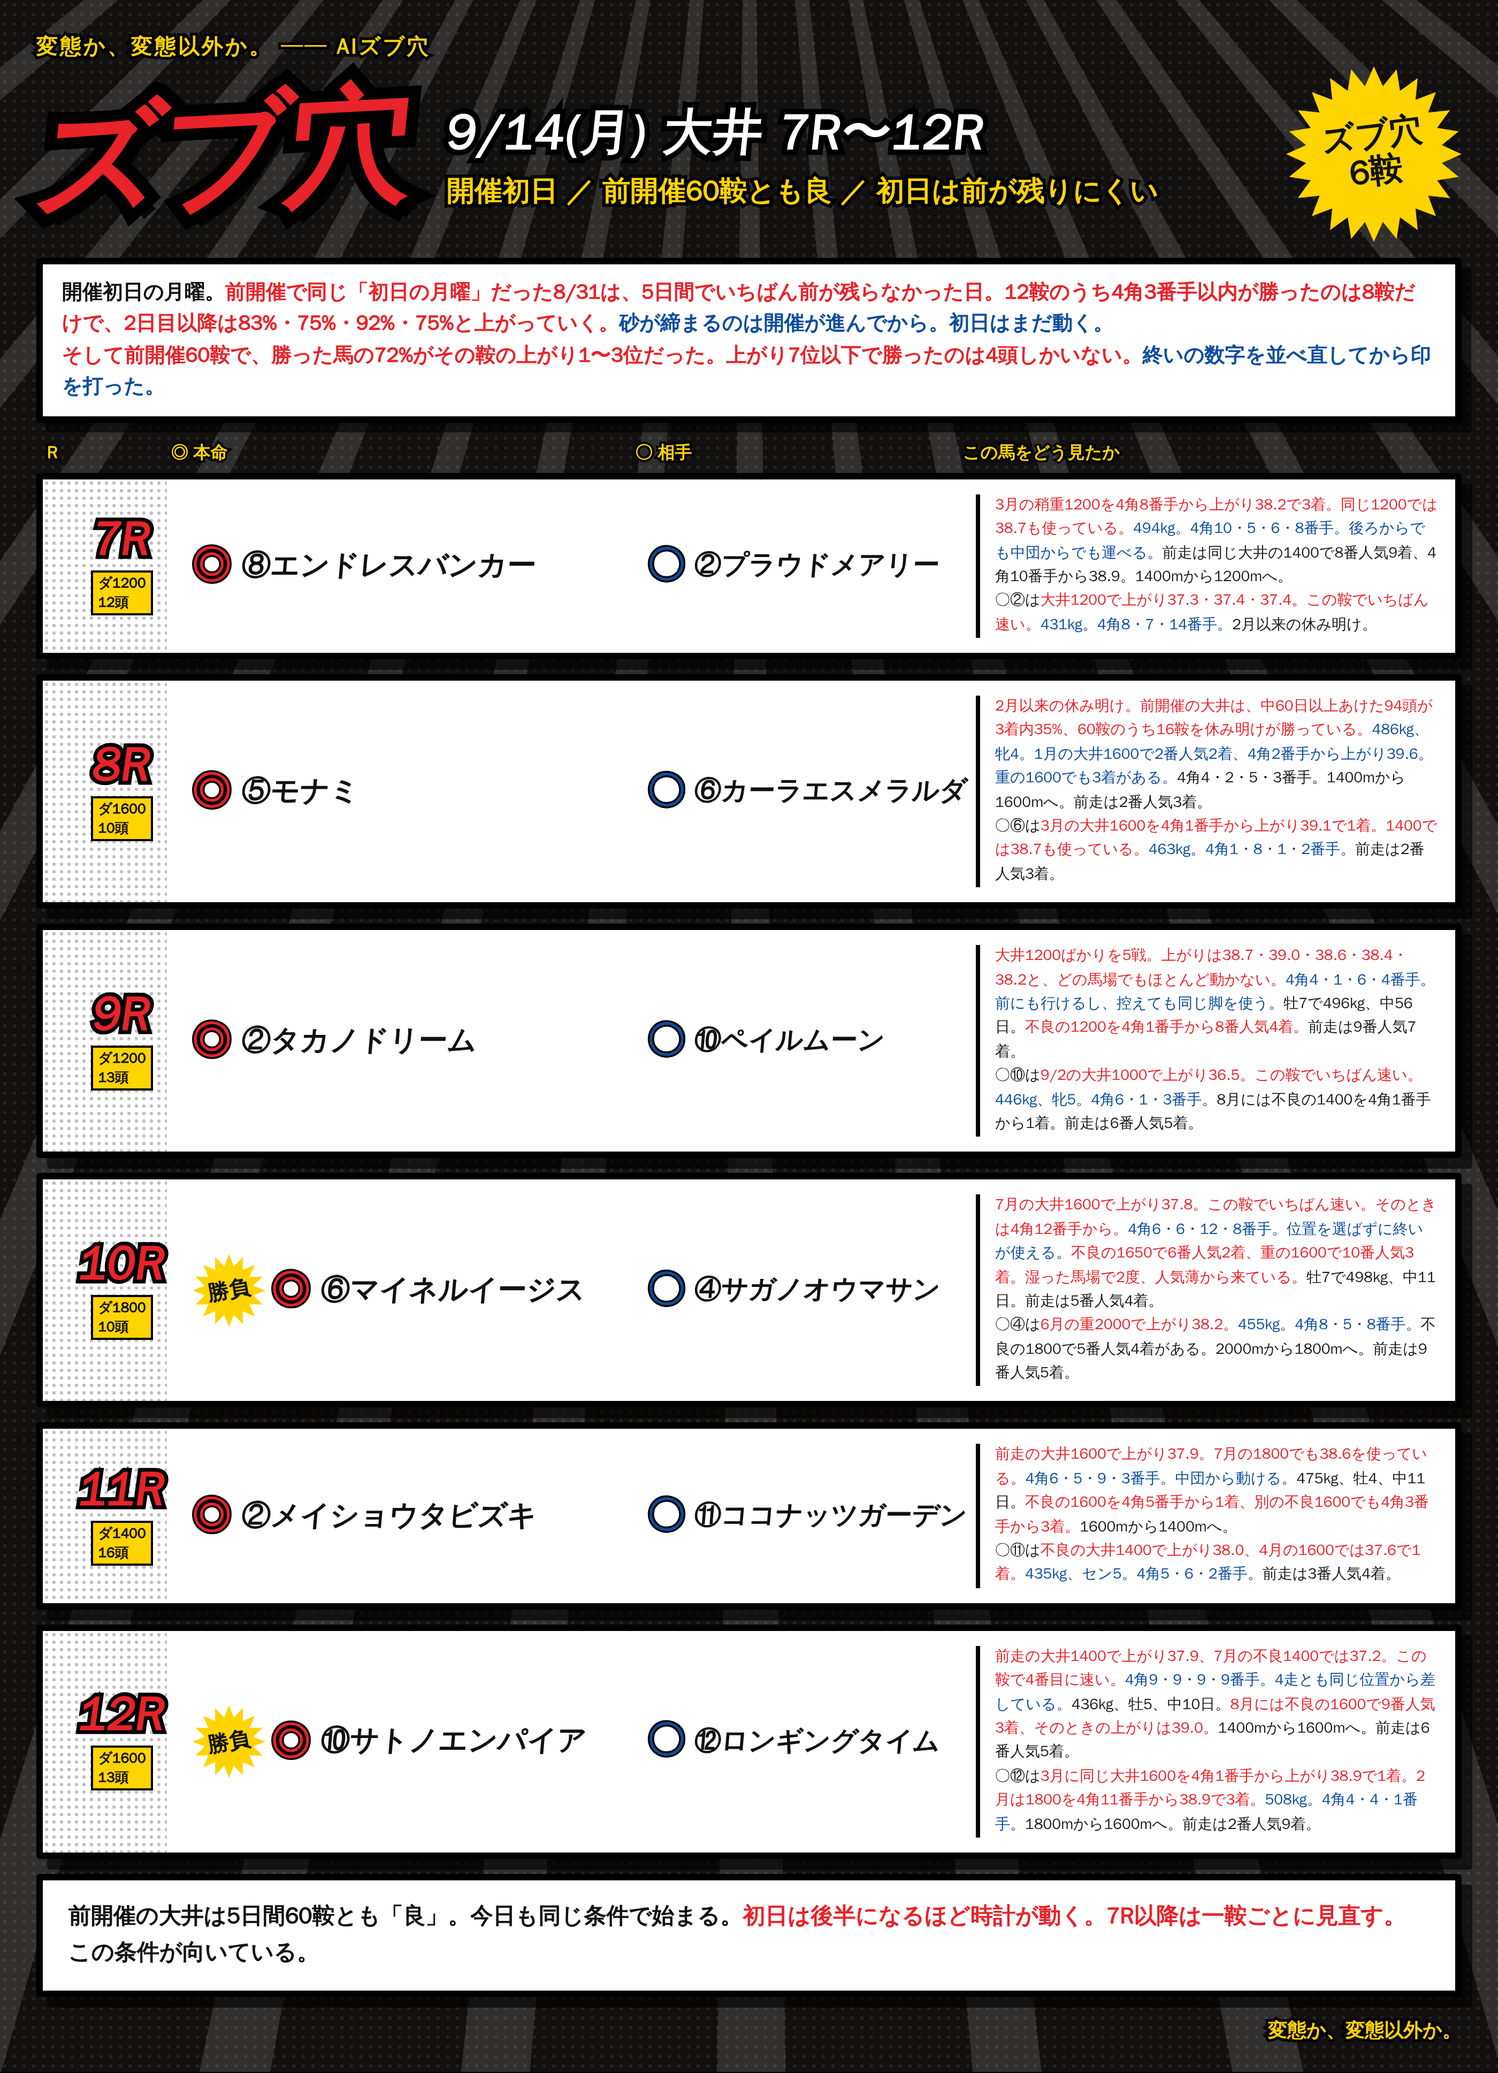
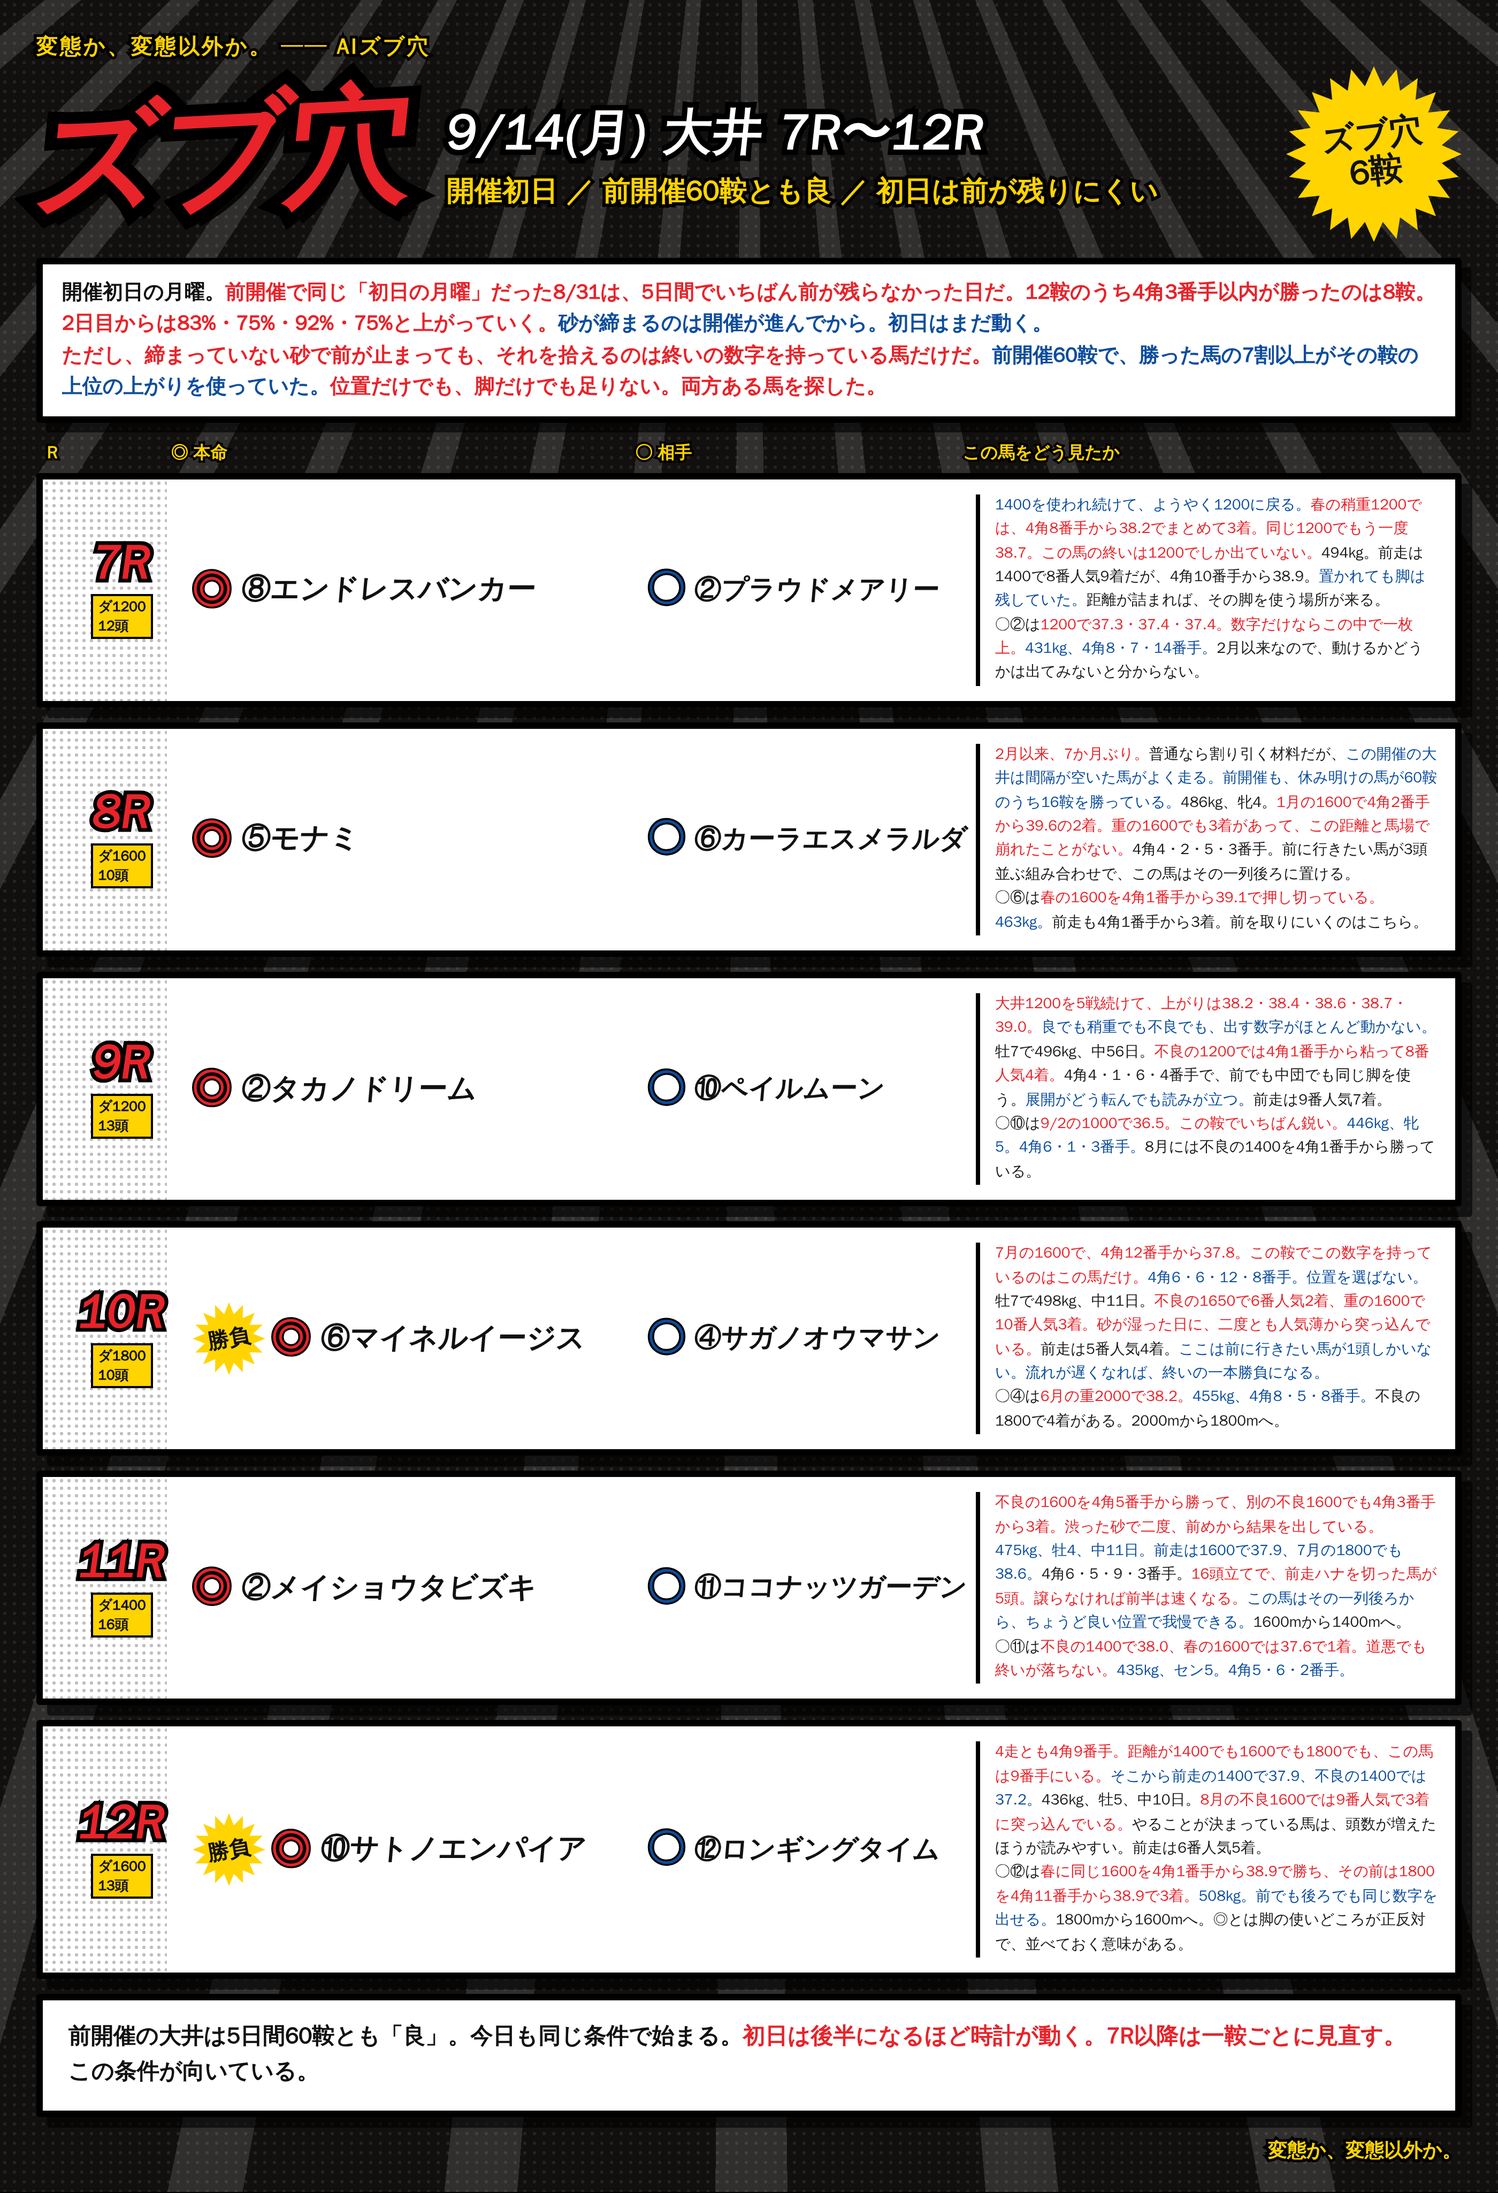
大井 9/14: ズブ穴カードの説明文を書き直し
Claude-Session: https://claude.ai/code/session_01RoHscZkr96FNaxQWvUqgEw

diff --git a/notes/live/2026-09-14/oi_7_12.html b/notes/live/2026-09-14/oi_7_12.html
@@ -79,14 +79,14 @@
 <body><div class="card"><div class="lines"></div><div class="tone"></div><div class="inner">
 <div class="kicker">変態か、変態以外か。 ── AIズブ穴</div>
 <div class="head"><div class="gekiga">ズブ穴</div><div class="dateblk"><div class="d1">9/14(月) 大井 7R〜12R</div><div class="d2">開催初日 ／ 前開催60鞍とも良 ／ 初日は前が残りにくい</div></div><div class="burst"><span>ズブ穴<br>6鞍</span></div></div>
-<div class="lead">開催初日の月曜。<span class="r">前開催で同じ「初日の月曜」だった8/31は、5日間でいちばん前が残らなかった日。12鞍のうち4角3番手以内が勝ったのは8鞍だけで、2日目以降は83%・75%・92%・75%と上がっていく。</span><span class="b">砂が締まるのは開催が進んでから。初日はまだ動く。</span><br><span class="r">そして前開催60鞍で、勝った馬の72%がその鞍の上がり1〜3位だった。上がり7位以下で勝ったのは4頭しかいない。</span><span class="b">終いの数字を並べ直してから印を打った。</span></div>
+<div class="lead">開催初日の月曜。<span class="r">前開催で同じ「初日の月曜」だった8/31は、5日間でいちばん前が残らなかった日だ。12鞍のうち4角3番手以内が勝ったのは8鞍。2日目からは83%・75%・92%・75%と上がっていく。</span><span class="b">砂が締まるのは開催が進んでから。初日はまだ動く。</span><br><span class="r">ただし、締まっていない砂で前が止まっても、それを拾えるのは終いの数字を持っている馬だけだ。</span><span class="b">前開催60鞍で、勝った馬の7割以上がその鞍の上位の上がりを使っていた。</span><span class="r">位置だけでも、脚だけでも足りない。両方ある馬を探した。</span></div>
 <div class="cols"><div class="cR">R</div><div class="cH">◎ 本命</div><div class="cA">○ 相手</div><div class="cM">この馬をどう見たか</div></div>
-<div class="row"><div class="corner"></div><div class="rN"><div class="n">7R</div><div class="d">ダ1200<br>12頭</div></div><div class="hm"><span class="mk">◎</span><span class="nm">⑧エンドレスバンカー</span></div><div class="at"><span class="mk2">○</span><span class="nm2">②プラウドメアリー</span></div><div class="memo"><b class="r">3月の稍重1200を4角8番手から上がり38.2で3着。同じ1200では38.7も使っている。</b><b>494kg。4角10・5・6・8番手。後ろからでも中団からでも運べる。</b>前走は同じ大井の1400で8番人気9着、4角10番手から38.9。1400mから1200mへ。<br>○②は<b class="r">大井1200で上がり37.3・37.4・37.4。この鞍でいちばん速い。</b><b>431kg。4角8・7・14番手。</b>2月以来の休み明け。</div></div>
-<div class="row"><div class="corner"></div><div class="rN"><div class="n">8R</div><div class="d">ダ1600<br>10頭</div></div><div class="hm"><span class="mk">◎</span><span class="nm">⑤モナミ</span></div><div class="at"><span class="mk2">○</span><span class="nm2">⑥カーラエスメラルダ</span></div><div class="memo"><b class="r">2月以来の休み明け。前開催の大井は、中60日以上あけた94頭が3着内35%、60鞍のうち16鞍を休み明けが勝っている。</b><b>486kg、牝4。1月の大井1600で2番人気2着、4角2番手から上がり39.6。重の1600でも3着がある。</b>4角4・2・5・3番手。1400mから1600mへ。前走は2番人気3着。<br>○⑥は<b class="r">3月の大井1600を4角1番手から上がり39.1で1着。1400では38.7も使っている。</b><b>463kg。4角1・8・1・2番手。</b>前走は2番人気3着。</div></div>
-<div class="row"><div class="corner"></div><div class="rN"><div class="n">9R</div><div class="d">ダ1200<br>13頭</div></div><div class="hm"><span class="mk">◎</span><span class="nm">②タカノドリーム</span></div><div class="at"><span class="mk2">○</span><span class="nm2">⑩ペイルムーン</span></div><div class="memo"><b class="r">大井1200ばかりを5戦。上がりは38.7・39.0・38.6・38.4・38.2と、どの馬場でもほとんど動かない。</b><b>4角4・1・6・4番手。前にも行けるし、控えても同じ脚を使う。</b>牡7で496kg、中56日。<b class="r">不良の1200を4角1番手から8番人気4着。</b>前走は9番人気7着。<br>○⑩は<b class="r">9/2の大井1000で上がり36.5。この鞍でいちばん速い。</b><b>446kg、牝5。4角6・1・3番手。</b>8月には不良の1400を4角1番手から1着。前走は6番人気5着。</div></div>
-<div class="row"><div class="corner"></div><div class="rN"><div class="n">10R</div><div class="d">ダ1800<br>10頭</div></div><div class="hm"><div class="sb"><span>勝負</span></div><span class="mk">◎</span><span class="nm">⑥マイネルイージス</span></div><div class="at"><span class="mk2">○</span><span class="nm2">④サガノオウマサン</span></div><div class="memo"><b class="r">7月の大井1600で上がり37.8。この鞍でいちばん速い。そのときは4角12番手から。</b><b>4角6・6・12・8番手。位置を選ばずに終いが使える。</b><b class="r">不良の1650で6番人気2着、重の1600で10番人気3着。湿った馬場で2度、人気薄から来ている。</b>牡7で498kg、中11日。前走は5番人気4着。<br>○④は<b class="r">6月の重2000で上がり38.2。</b><b>455kg。4角8・5・8番手。</b>不良の1800で5番人気4着がある。2000mから1800mへ。前走は9番人気5着。</div></div>
-<div class="row"><div class="corner"></div><div class="rN"><div class="n">11R</div><div class="d">ダ1400<br>16頭</div></div><div class="hm"><span class="mk">◎</span><span class="nm">②メイショウタビズキ</span></div><div class="at"><span class="mk2">○</span><span class="nm2">⑪ココナッツガーデン</span></div><div class="memo"><b class="r">前走の大井1600で上がり37.9。7月の1800でも38.6を使っている。</b><b>4角6・5・9・3番手。中団から動ける。</b>475kg、牡4、中11日。<b class="r">不良の1600を4角5番手から1着、別の不良1600でも4角3番手から3着。</b>1600mから1400mへ。<br>○⑪は<b class="r">不良の大井1400で上がり38.0、4月の1600では37.6で1着。</b><b>435kg、セン5。4角5・6・2番手。</b>前走は3番人気4着。</div></div>
-<div class="row"><div class="corner"></div><div class="rN"><div class="n">12R</div><div class="d">ダ1600<br>13頭</div></div><div class="hm"><div class="sb"><span>勝負</span></div><span class="mk">◎</span><span class="nm">⑩サトノエンパイア</span></div><div class="at"><span class="mk2">○</span><span class="nm2">⑫ロンギングタイム</span></div><div class="memo"><b class="r">前走の大井1400で上がり37.9、7月の不良1400では37.2。この鞍で4番目に速い。</b><b>4角9・9・9・9番手。4走とも同じ位置から差している。</b>436kg、牡5、中10日。<b class="r">8月には不良の1600で9番人気3着、そのときの上がりは39.0。</b>1400mから1600mへ。前走は6番人気5着。<br>○⑫は<b class="r">3月に同じ大井1600を4角1番手から上がり38.9で1着。2月は1800を4角11番手から38.9で3着。</b><b>508kg。4角4・4・1番手。</b>1800mから1600mへ。前走は2番人気9着。</div></div>
+<div class="row"><div class="corner"></div><div class="rN"><div class="n">7R</div><div class="d">ダ1200<br>12頭</div></div><div class="hm"><span class="mk">◎</span><span class="nm">⑧エンドレスバンカー</span></div><div class="at"><span class="mk2">○</span><span class="nm2">②プラウドメアリー</span></div><div class="memo"><b>1400を使われ続けて、ようやく1200に戻る。</b><b class="r">春の稍重1200では、4角8番手から38.2でまとめて3着。同じ1200でもう一度38.7。この馬の終いは1200でしか出ていない。</b>494kg。前走は1400で8番人気9着だが、4角10番手から38.9。<b>置かれても脚は残していた。</b>距離が詰まれば、その脚を使う場所が来る。<br>○②は<b class="r">1200で37.3・37.4・37.4。数字だけならこの中で一枚上。</b><b>431kg、4角8・7・14番手。</b>2月以来なので、動けるかどうかは出てみないと分からない。</div></div>
+<div class="row"><div class="corner"></div><div class="rN"><div class="n">8R</div><div class="d">ダ1600<br>10頭</div></div><div class="hm"><span class="mk">◎</span><span class="nm">⑤モナミ</span></div><div class="at"><span class="mk2">○</span><span class="nm2">⑥カーラエスメラルダ</span></div><div class="memo"><b class="r">2月以来、7か月ぶり。</b>普通なら割り引く材料だが、<b>この開催の大井は間隔が空いた馬がよく走る。前開催も、休み明けの馬が60鞍のうち16鞍を勝っている。</b>486kg、牝4。<b class="r">1月の1600で4角2番手から39.6の2着。重の1600でも3着があって、この距離と馬場で崩れたことがない。</b>4角4・2・5・3番手。前に行きたい馬が3頭並ぶ組み合わせで、この馬はその一列後ろに置ける。<br>○⑥は<b class="r">春の1600を4角1番手から39.1で押し切っている。</b><b>463kg。</b>前走も4角1番手から3着。前を取りにいくのはこちら。</div></div>
+<div class="row"><div class="corner"></div><div class="rN"><div class="n">9R</div><div class="d">ダ1200<br>13頭</div></div><div class="hm"><span class="mk">◎</span><span class="nm">②タカノドリーム</span></div><div class="at"><span class="mk2">○</span><span class="nm2">⑩ペイルムーン</span></div><div class="memo"><b class="r">大井1200を5戦続けて、上がりは38.2・38.4・38.6・38.7・39.0。</b><b>良でも稍重でも不良でも、出す数字がほとんど動かない。</b>牡7で496kg、中56日。<b class="r">不良の1200では4角1番手から粘って8番人気4着。</b>4角4・1・6・4番手で、前でも中団でも同じ脚を使う。<b>展開がどう転んでも読みが立つ。</b>前走は9番人気7着。<br>○⑩は<b class="r">9/2の1000で36.5。この鞍でいちばん鋭い。</b><b>446kg、牝5。4角6・1・3番手。</b>8月には不良の1400を4角1番手から勝っている。</div></div>
+<div class="row"><div class="corner"></div><div class="rN"><div class="n">10R</div><div class="d">ダ1800<br>10頭</div></div><div class="hm"><div class="sb"><span>勝負</span></div><span class="mk">◎</span><span class="nm">⑥マイネルイージス</span></div><div class="at"><span class="mk2">○</span><span class="nm2">④サガノオウマサン</span></div><div class="memo"><b class="r">7月の1600で、4角12番手から37.8。この鞍でこの数字を持っているのはこの馬だけ。</b><b>4角6・6・12・8番手。位置を選ばない。</b>牡7で498kg、中11日。<b class="r">不良の1650で6番人気2着、重の1600で10番人気3着。砂が湿った日に、二度とも人気薄から突っ込んでいる。</b>前走は5番人気4着。<b>ここは前に行きたい馬が1頭しかいない。流れが遅くなれば、終いの一本勝負になる。</b><br>○④は<b class="r">6月の重2000で38.2。</b><b>455kg、4角8・5・8番手。</b>不良の1800で4着がある。2000mから1800mへ。</div></div>
+<div class="row"><div class="corner"></div><div class="rN"><div class="n">11R</div><div class="d">ダ1400<br>16頭</div></div><div class="hm"><span class="mk">◎</span><span class="nm">②メイショウタビズキ</span></div><div class="at"><span class="mk2">○</span><span class="nm2">⑪ココナッツガーデン</span></div><div class="memo"><b class="r">不良の1600を4角5番手から勝って、別の不良1600でも4角3番手から3着。渋った砂で二度、前めから結果を出している。</b><b>475kg、牡4、中11日。前走は1600で37.9、7月の1800でも38.6。</b>4角6・5・9・3番手。<b class="r">16頭立てで、前走ハナを切った馬が5頭。譲らなければ前半は速くなる。</b><b>この馬はその一列後ろから、ちょうど良い位置で我慢できる。</b>1600mから1400mへ。<br>○⑪は<b class="r">不良の1400で38.0、春の1600では37.6で1着。道悪でも終いが落ちない。</b><b>435kg、セン5。4角5・6・2番手。</b></div></div>
+<div class="row"><div class="corner"></div><div class="rN"><div class="n">12R</div><div class="d">ダ1600<br>13頭</div></div><div class="hm"><div class="sb"><span>勝負</span></div><span class="mk">◎</span><span class="nm">⑩サトノエンパイア</span></div><div class="at"><span class="mk2">○</span><span class="nm2">⑫ロンギングタイム</span></div><div class="memo"><b class="r">4走とも4角9番手。距離が1400でも1600でも1800でも、この馬は9番手にいる。</b><b>そこから前走の1400で37.9、不良の1400では37.2。</b>436kg、牡5、中10日。<b class="r">8月の不良1600では9番人気で3着に突っ込んでいる。</b>やることが決まっている馬は、頭数が増えたほうが読みやすい。前走は6番人気5着。<br>○⑫は<b class="r">春に同じ1600を4角1番手から38.9で勝ち、その前は1800を4角11番手から38.9で3着。</b><b>508kg。前でも後ろでも同じ数字を出せる。</b>1800mから1600mへ。◎とは脚の使いどころが正反対で、並べておく意味がある。</div></div>
 <div class="foot"><b>前開催の大井は5日間60鞍とも「良」。今日も同じ条件で始まる。</b><b class="r">初日は後半になるほど時計が動く。7R以降は一鞍ごとに見直す。</b><br><b>この条件が向いている。</b></div>
 <div class="sig">変態か、変態以外か。</div>
 </div></div></body></html>
